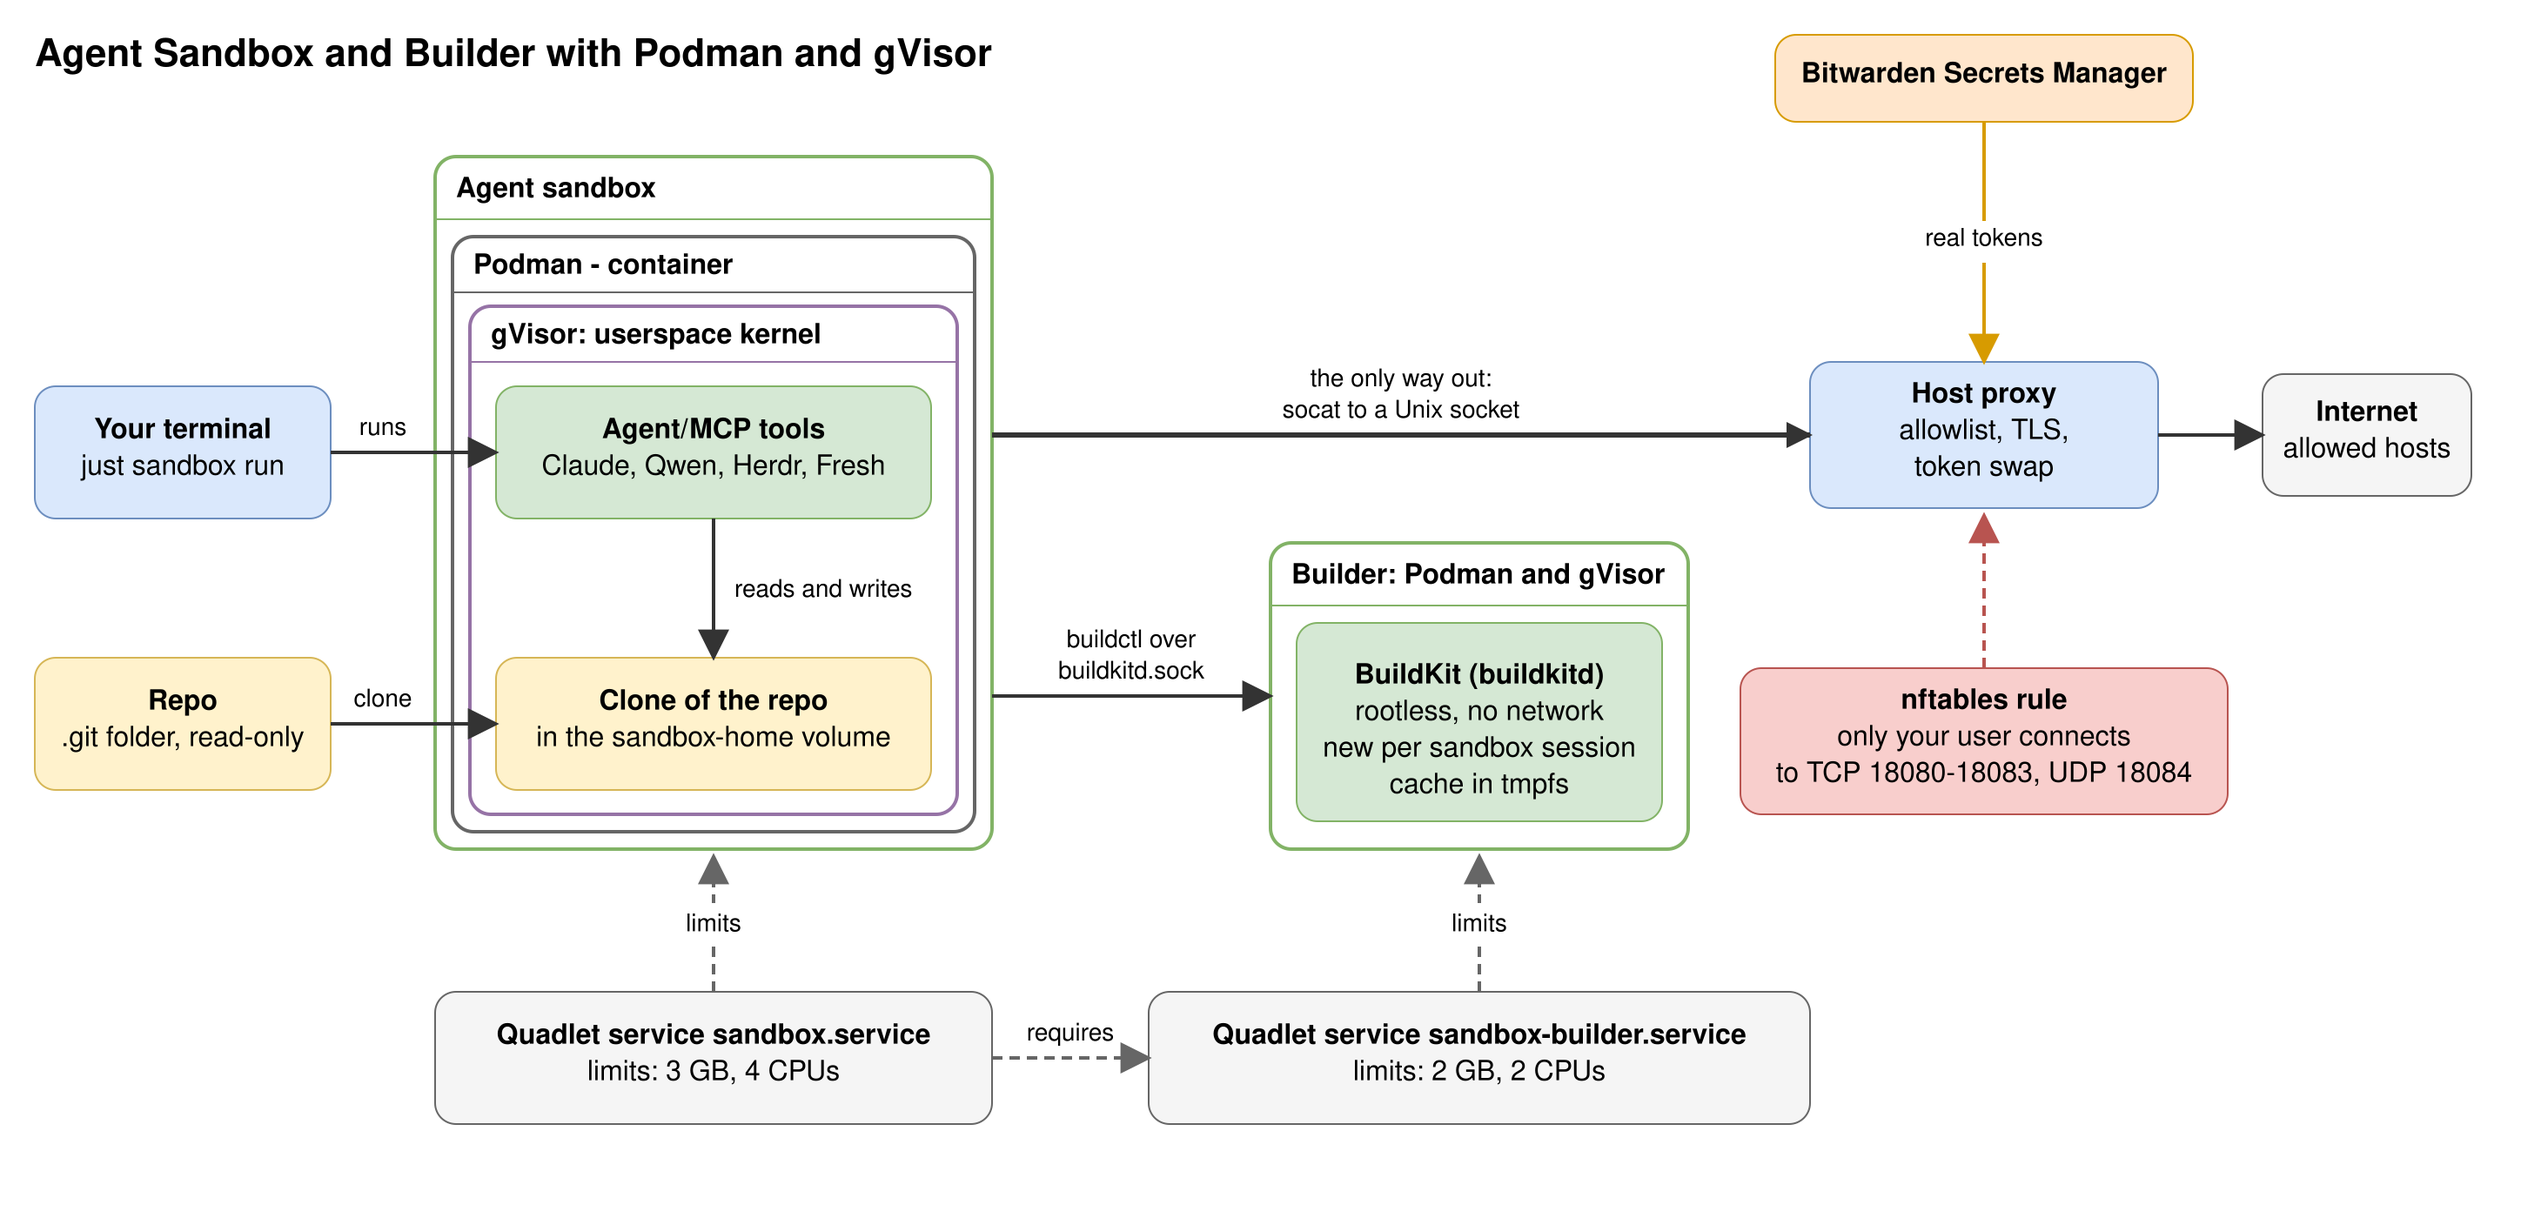
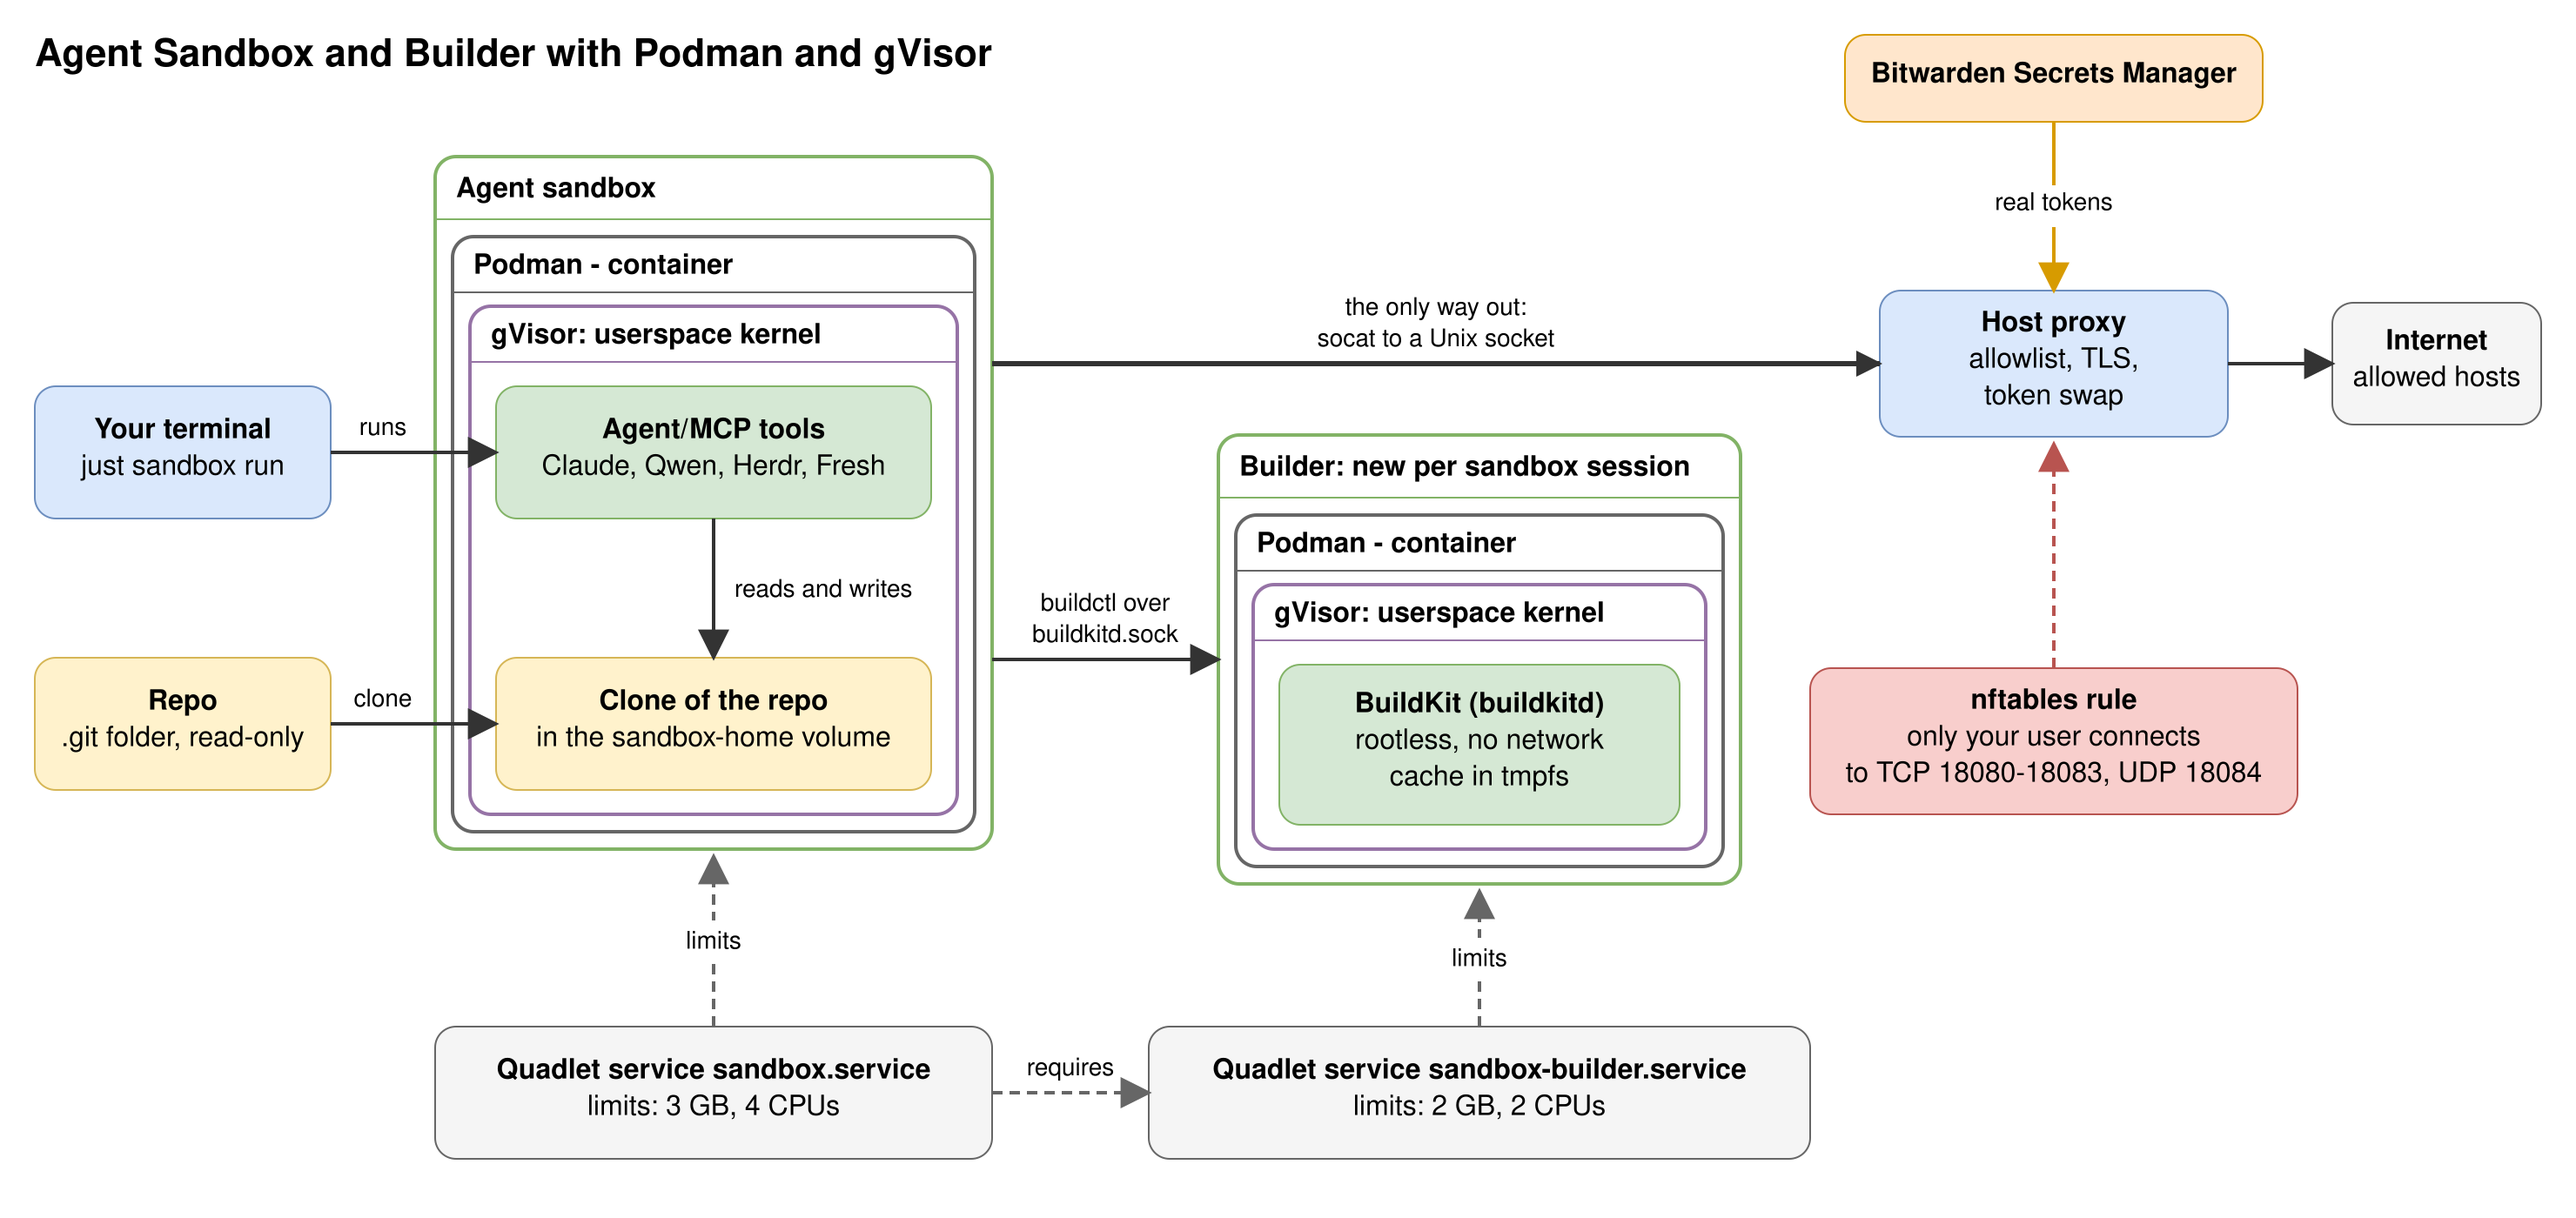
sandbox: show the builder in three nested layers in the diagram

diff --git a/.sandbox/docs/diagrams/README.md b/.sandbox/docs/diagrams/README.md
@@ -2,7 +2,7 @@
 
 | File | Use |
 |---|---|
-| `architecture.drawio` | The source of the architecture diagram. It shows your terminal and the repo. It shows the agent sandbox as three nested boxes. The outer box is the agent sandbox. Inside it is the Podman container. Inside that is gVisor, the userspace kernel. The agent and MCP tools and the clone of the repo in the volume `sandbox-home` sit in the gVisor box. The tools work in that clone. A Quadlet service holds the limits of the container. It shows the only way out, the host proxy (allowlist, TLS and token swap), Bitwarden Secrets Manager and the Internet. An nftables rule lets only your user connect to the ports of the proxy. The label of the only way out names the `socat` relay and the Unix socket. The path in detail is in `sandbox-network.drawio`. A second box shows the builder: BuildKit (`buildkitd`) in a rootless Podman and gVisor container with no network. A new builder starts for each sandbox session, and its cache is in `tmpfs`. The agent reaches it with `buildctl` over `buildkitd.sock`. Each of the two containers has a Quadlet service with its limits, and `sandbox.service` requires `sandbox-builder.service`. |
+| `architecture.drawio` | The source of the architecture diagram. It shows your terminal and the repo. It shows the agent sandbox as three nested boxes. The outer box is the agent sandbox. Inside it is the Podman container. Inside that is gVisor, the userspace kernel. The agent and MCP tools and the clone of the repo in the volume `sandbox-home` sit in the gVisor box. The tools work in that clone. A Quadlet service holds the limits of the container. It shows the only way out, the host proxy (allowlist, TLS and token swap), Bitwarden Secrets Manager and the Internet. An nftables rule lets only your user connect to the ports of the proxy. The label of the only way out names the `socat` relay and the Unix socket. The path in detail is in `sandbox-network.drawio`. A second set of three nested boxes shows the builder in the same way as the agent sandbox: the builder, the Podman container and gVisor. BuildKit (`buildkitd`) sits in the gVisor box. It is rootless, has no network and keeps its cache in `tmpfs`. A new builder starts for each sandbox session. The agent reaches it with `buildctl` over `buildkitd.sock`. Each of the two containers has a Quadlet service with its limits, and `sandbox.service` requires `sandbox-builder.service`. |
 | `architecture.svg` | The diagram as a plain SVG: real `<text>` elements, a white background and no `foreignObject`. It is drawn from the coordinates of the `.drawio` file. The export of draw.io wraps each label in `foreignObject` and uses `light-dark()` colors. Many viewers do not draw them. |
 | `architecture.png` | The PNG of the SVG, 2x with a white background. Make it with `rsvg-convert -z 2 -b white architecture.svg -o architecture.png`. |
 | `sandbox-network.drawio` | The source of the network diagram. It shows the path from the agent tools to the internet. The path has the empty container network namespace, the gVisor sentry with `socat`, the gVisor gofer, the file `proxy.sock`, `sandbox-bridge.service`, iron-proxy and the allowed hosts. Each line has a label for its carrier (TCP, Unix socket or HTTPS). A red box shows the firewall rule on the proxy ports. |
